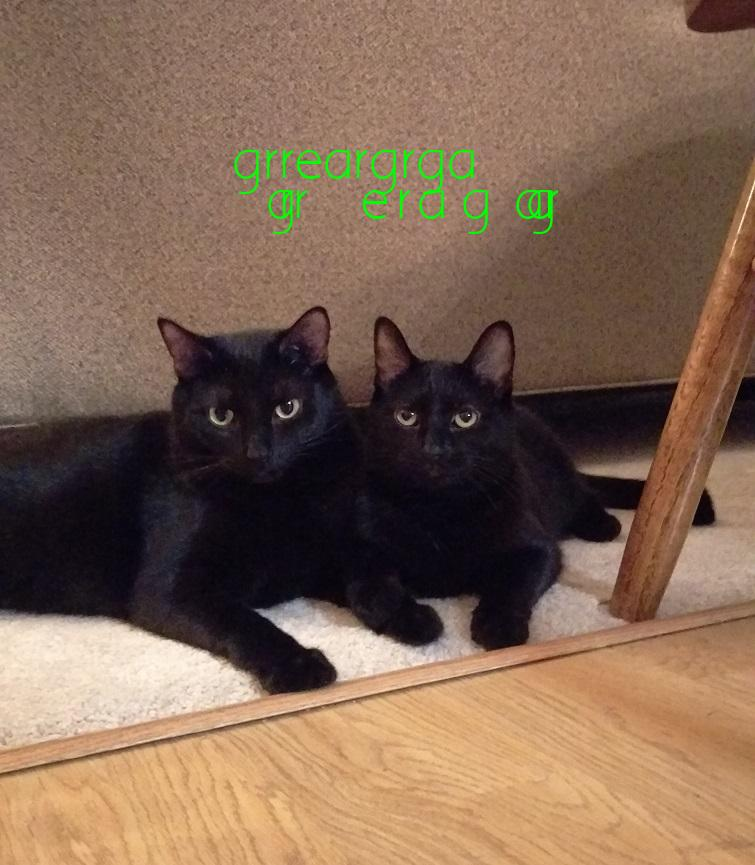
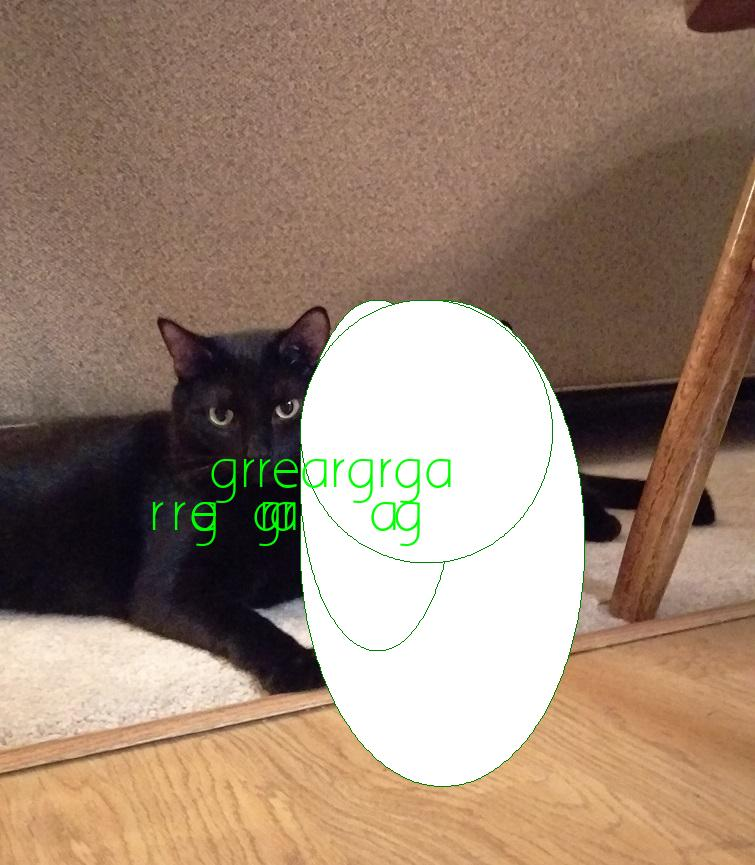
6th commit

Changed region(s): [[0.1828, 0.3434, 0.7921, 0.9364], [0.3046, 0.1561, 0.7616, 0.2809]]

diff --git a/inclass/Src/image_fnc.py b/inclass/Src/image_fnc.py
@@ -50,6 +50,8 @@ def write_text_to_image(imageFile, text):
     draw = ImageDraw.Draw(myImage)
     # https://stackoverflow.com/questions/47694421/pil-issue-oserror-cannot-open-resource
     fontStyle = ImageFont.truetype("Aaargh.ttf", 48)     # font must be in the same folder as the .py file. 
+    for i in range(0, 10):
+        draw.ellipse([(300, 300), (i+randint(0,800),i+randint(0,800))], outline="green", fill="white")
     x = randint(0, myImage.width-len(text)*30)
     y = randint(0, myImage.height-len(text)*10)
     x_1 = x+randint(30, 50)
